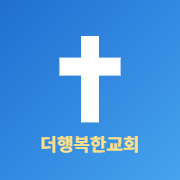
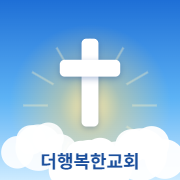
큐티 날짜를 옮기면 본문도 함께, 1년치 큐티 본문 엑셀 내려받기(관리), 새 앱 아이콘

diff --git a/member.html b/member.html
@@ -310,6 +310,7 @@ footer a{color:var(--muted)}
 .atabs button b{display:inline-block;min-width:18px;margin-left:4px;padding:0 5px;border-radius:9px;background:var(--warn);color:#fff;font-size:11px;line-height:18px;text-align:center}
 section[data-page="admin"] > .card.tabhide{display:none!important}
 .tq-k{font-size:13px;color:var(--accent);font-weight:700}
+.tqnav{display:flex;align-items:center;gap:8px}.tqnav .btn{min-width:36px;padding:2px 10px;min-height:28px}
 .tq-v{font-family:var(--serif);font-size:20px;font-weight:700;line-height:1.5}
 .plan{display:flex;flex-wrap:wrap;gap:6px;align-items:center;margin-bottom:12px}
 .plan .pl{font-size:14px;font-weight:700;color:var(--accent);margin-right:4px}
@@ -875,6 +876,10 @@ section[data-page="admin"] > .card.tabhide{display:none!important}
       <ul class="slots" id="planList"></ul>
       <div class="row"><select id="planQ"></select><input id="planBooks" type="text" placeholder="읽을 책 (쉼표로 구분)" style="flex:1;min-width:14em"><button class="btn acc sm" type="button" id="planSave">저장</button></div>
       <p class="msg" id="planMsg"></p>
+      <h3 class="sh" style="margin-top:18px">📥 1년치 큐티 본문 엑셀로 내려받기</h3>
+      <p class="hint">위에서 분기마다 읽을 책을 정한 뒤, 시작 분기를 고르고 누르면 그 분기부터 1년(4분기) 동안의 매일 큐티 본문이 엑셀 파일로 저장됩니다. 1번 시트는 매일 본문 전체, 2번 시트는 수·금·주일만 (날짜 윗줄 · 말씀 아랫줄, 한글에 붙여 넣기 좋게) 담깁니다.</p>
+      <div class="row"><select id="qxStart"></select><button class="btn acc sm" type="button" id="qxGo">엑셀로 내려받기</button></div>
+      <p class="msg" id="qxMsg"></p>
     </div>
     <div class="card form" style="margin-top:16px">
       <h2 class="h">기도 모임 관리</h2>
@@ -1371,15 +1376,21 @@ async function renderToday(){
   const box = $("#qtToday"), m = +d.slice(5, 7), day = +d.slice(8, 10), dw = "일월화수목금토"[new Date(d + "T00:00:00Z").getUTCDay()];
   if (!plan) { box.innerHTML = `<span class="muted sm">${m}월 ${day}일(${dw}) — 이번 분기 큐티 범위가 아직 정해지지 않았습니다. 자유롭게 본문을 골라 묵상해 주세요.</span>`; return; }
   box.innerHTML = item
-    ? `<div class="tq-k">${m}월 ${day}일(${dw}) 큐티 본문</div><div class="tq-v">${refText(item)}</div>
+    ? `<div class="tq-k tqnav"><button class="btn sm" type="button" data-qs="-1" aria-label="전날 본문">◀</button><span>${m}월 ${day}일(${dw}) 큐티 본문</span><button class="btn sm" type="button" data-qs="1" aria-label="다음 날 본문">▶</button></div><div class="tq-v">${refText(item)}</div>
        <div class="row" style="margin-top:6px"><button class="btn acc sm" type="button" id="tqRead">본문 읽기</button><button class="btn sm" type="button" id="tqSay">🔊 읽어 주기</button><button class="btn sm" type="button" id="tqUse">읽은 본문에 넣기</button></div>`
-    : `<div class="tq-k">${m}월 ${day}일(${dw})</div><div class="tq-v" style="font-size:16px">${done ? "이번 분기 범위를 모두 마쳤습니다. 지난 본문 중 마음에 남은 곳을 다시 묵상해 보세요." : ""}</div>`;
+    : `<div class="tq-k tqnav"><button class="btn sm" type="button" data-qs="-1">◀</button><span>${m}월 ${day}일(${dw})</span><button class="btn sm" type="button" data-qs="1">▶</button></div><div class="tq-v" style="font-size:16px">${done ? "이번 분기 범위를 모두 마쳤습니다. 지난 본문 중 마음에 남은 곳을 다시 묵상해 보세요." : ""}</div>`;
   if (item) {
     $("#tqRead").onclick = async () => { await openReader(item[0], item[1]); rSel = [item[2], item[3]]; markSel(); const li = document.querySelector(`#rText li[data-v="${item[2]}"]`); if (li) $("#rText").scrollTop = li.offsetTop - $("#rText").offsetTop; };
     $("#tqUse").onclick = () => { $("#qPassage").value = refText(item); toast("읽은 본문에 넣었습니다"); };
     $("#tqSay").onclick = () => sayQt(item);
+    // 날짜를 옮기면 아래 '말씀 읽기' 본문과 '읽은 본문' 칸도 그 날 본문으로 함께 바뀝니다
+    await openReader(item[0], item[1]); rSel = [item[2], item[3]]; markSel();
+    const li = document.querySelector(`#rText li[data-v="${item[2]}"]`); if (li) $("#rText").scrollTop = li.offsetTop - $("#rText").offsetTop;
+    const pv = $("#qPassage").value.trim(); if (!pv || pv === autoPassage) { $("#qPassage").value = autoPassage = refText(item); }
   }
+  box.querySelectorAll("[data-qs]").forEach(x => x.onclick = () => $(+x.dataset.qs < 0 ? "#qPrev" : "#qNext").click());
 }
+let autoPassage = "";
 async function initReader(){
   if (readerReady) return; readerReady = true;
   await ensureBooks();
@@ -1956,6 +1967,8 @@ async function loadPlanAdmin(){
   $("#planQ").innerHTML = [...keys].sort().filter(k => k >= cur.slice(0, 4) + "-1").map(k => `<option value="${k}"${k === cur ? " selected" : ""}>${k.slice(0, 4)}년 ${qLabel(k)}</option>`).join("");
   const fill = () => { const p = plans[$("#planQ").value]; $("#planBooks").value = p ? p[1].map(b => BOOKS[b-1][0]).join(", ") : ""; };
   $("#planQ").onchange = fill; fill();
+  if (!$("#qxStart").options.length) { const ks = []; for (const yy of [y - 1, y, y + 1]) for (let q = 1; q <= 4; q++) ks.push(`${yy}-${q}`);
+    $("#qxStart").innerHTML = ks.map(k => `<option value="${k}"${k === cur ? " selected" : ""}>${k.slice(0, 4)}년 ${k.slice(5)}분기부터 1년</option>`).join(""); }
   $("#planList").innerHTML = Object.keys(plans).sort().filter(k => k >= cur).map(k => { const [label, books] = plans[k], d = Math.round((Date.UTC(+k.slice(0, 4), +k.slice(5) * 3, 1) - Date.UTC(+k.slice(0, 4), +k.slice(5) * 3 - 3, 1)) / 864e5), v = books.reduce((s, b) => s + BOOKS[b-1][1].reduce((a, n) => a + n, 0), 0);
     return `<li><span class="tm">${k.slice(0, 4)}년 ${esc(label)}</span><span class="who">${books.map(b => BOOKS[b-1][0]).join(", ")} <span class="muted sm">· 하루 약 ${Math.round(v / d)}절</span></span></li>`; }).join("") || '<li class="muted sm">정해진 범위가 없습니다.</li>';
 }
@@ -1967,6 +1980,34 @@ $("#planSave").onclick = async () => {
   const { error } = await sb.from("reading_plans").upsert({ qkey: k, label: qLabel(k), books: out, updated_at: new Date().toISOString() });
   if (error) return msg("저장하지 못했습니다: " + error.message, true);
   msg("저장했습니다. 나의 큐티 화면에 바로 반영됩니다."); for (const x in schedCache) delete schedCache[x]; loadPlanAdmin();
+};
+/* 1년치 큐티 본문 엑셀 */
+$("#qxGo").onclick = async () => {
+  const b = $("#qxGo"); b.disabled = true; amsg("#qxMsg", "만드는 중… (성경 본문을 모으느라 몇 초 걸립니다)");
+  try {
+    if (!window.XLSX) await loadScript("https://cdnjs.cloudflare.com/ajax/libs/xlsx/0.18.5/xlsx.full.min.js");
+    await ensureBooks(); const plans = await loadPlans(true), W = "일월화수목금토", start = $("#qxStart").value;
+    let [y, q] = start.split("-").map(Number); const rows = [];
+    for (let i = 0; i < 4; i++) {
+      const k = `${y}-${q}`, p = plans[k], d0 = Date.UTC(y, (q - 1) * 3, 1), days = Math.round((Date.UTC(y, q * 3, 1) - d0) / 864e5);
+      const sch = p && p[1]?.length ? qtSchedule(k, p[1]) : [];
+      for (let j = 0; j < days; j++) {
+        const dt = new Date(d0 + j * 864e5), it = sch[j];
+        let txt = ""; if (it) { const ch = (await getBook(it[0]))[it[1] - 1]; txt = ch.slice(it[2] - 1, it[3]).map((t, n) => `${it[2] + n} ${t}`).join(" "); }
+        rows.push({ "날짜": dt.toISOString().slice(0, 10), "요일": W[dt.getUTCDay()], "분기": p ? `${y}년 ${p[0]}` : `${y}년 ${q}분기 (범위 없음)`, "본문": it ? refText(it) : "", "말씀": it ? txt : (p ? "(분기 범위를 마침 – 자유 묵상)" : "") });
+      }
+      if (++q > 4) { q = 1; y++; }
+    }
+    const ws1 = XLSX.utils.json_to_sheet(rows); ws1["!cols"] = [{ wch: 12 }, { wch: 5 }, { wch: 18 }, { wch: 20 }, { wch: 100 }];
+    const KO = { 3: "수요일", 5: "금요일", 0: "주일" }, aoa = [["수요일·금요일·주일 큐티 본문 — 날짜(윗줄)와 말씀(아랫줄)을 그대로 복사해 한글에 붙여 넣으세요."], []];
+    for (const r of rows) { const w = new Date(r["날짜"] + "T00:00:00Z").getUTCDay(); if (!(w in KO) || !r["본문"]) continue; const [Y, M, D] = r["날짜"].split("-").map(Number); aoa.push([`${Y}년 ${M}월 ${D}일 (${KO[w]})  ${r["본문"]}`], [r["말씀"]], []); }
+    const ws2 = XLSX.utils.aoa_to_sheet(aoa); ws2["!cols"] = [{ wch: 110 }];
+    const wb = XLSX.utils.book_new(); XLSX.utils.book_append_sheet(wb, ws1, "매일 큐티 (1년)"); XLSX.utils.book_append_sheet(wb, ws2, "수·금·주일 (설교 본문)");
+    XLSX.writeFile(wb, `더행복한교회_큐티본문_${start.replace("-", "년")}분기부터_1년.xlsx`);
+    const empty = rows.filter(r => !r["본문"]).length;
+    amsg("#qxMsg", `내려받았습니다. (${rows.length}일${empty ? ` · 범위가 없는 날 ${empty}일` : ""})`);
+  } catch (e) { amsg("#qxMsg", "만들지 못했습니다: " + (e.message || e), true); }
+  b.disabled = false;
 };
 /* 홈페이지 고치기 (설교 · 알려드려요 · 기도제목) — Supabase에 저장, 홈페이지가 바로 불러옴 */
 const YT_RE = /^https:\/\/(www\.|m\.)?(youtube\.com|youtu\.be)\//;
